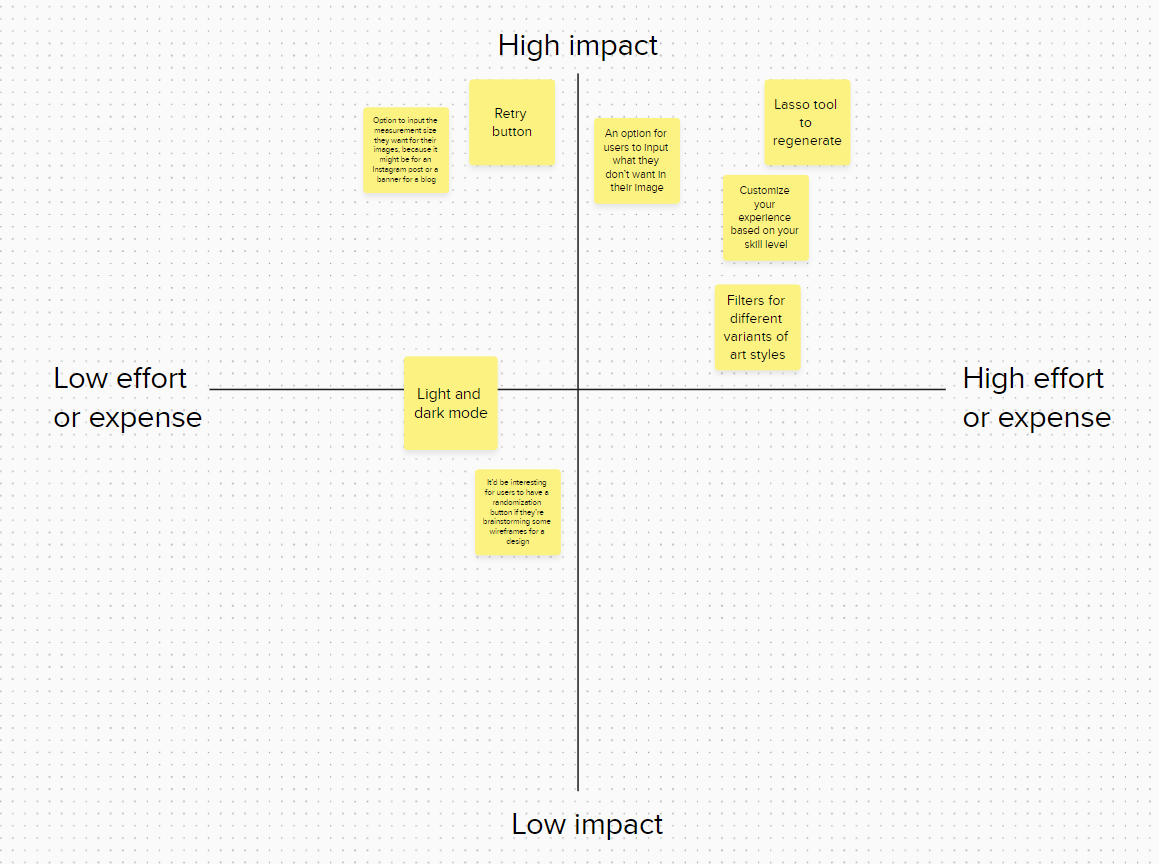
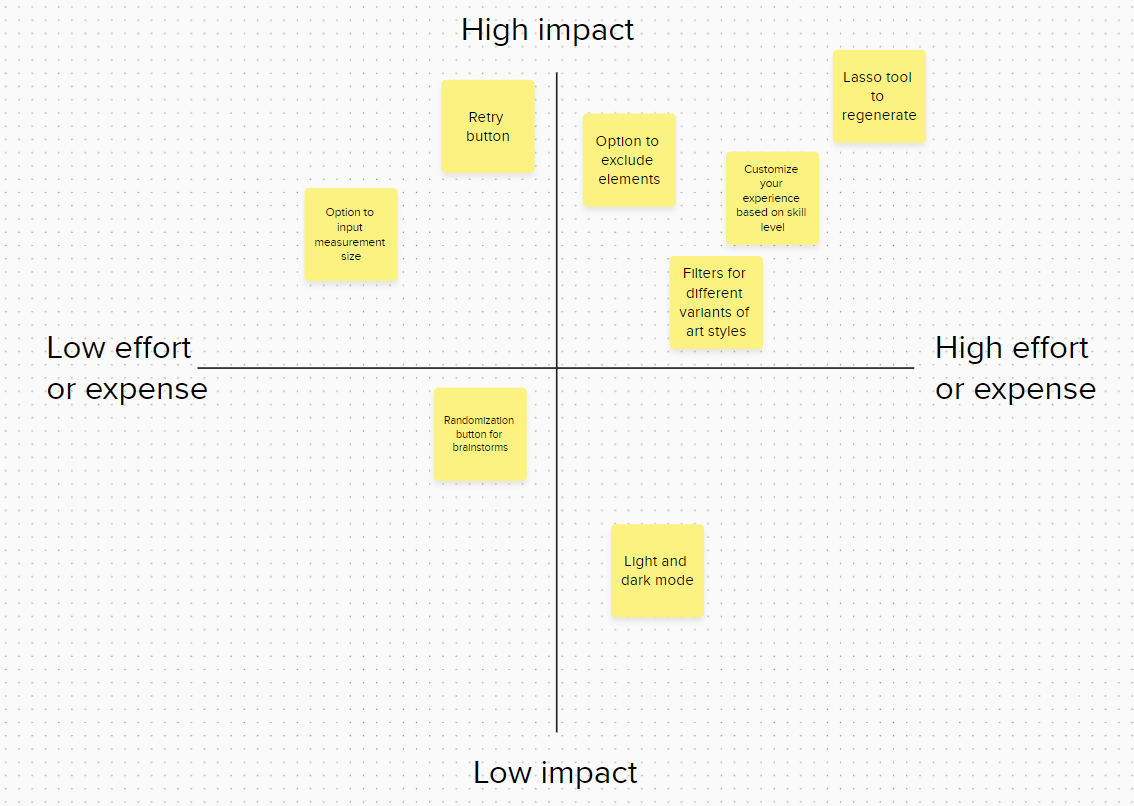
fixed bp

Changed region(s): [[0.0309, 0.0, 0.9877, 0.8995], [0.4321, 0.9305, 0.5864, 0.9926]]

diff --git a/bp.html b/bp.html
@@ -132,11 +132,17 @@
       <h4><span class="lime-highlight">19</span> participants</h4>
     </br>
         <div class="bullets">
-            <p><span class="lime-highlight">42% </span>of participants have no experience with AI image generators</p>
-            <p><span class="lime-highlight">100% </span>of participants use images within their work</p>
-            <p><span class="lime-highlight">36% </span> of participants already integrate AI image generators into their work at bp</p>
+            <p2><span class="lime-highlight">42% </span>of participants have no experience with AI image generators</p2>
+            <p><span class="grey-highlight">This indicates that a significant portion of bp employees currently lack experience with AI image generators.</span></p>
+          </br>
+            <p2><span class="lime-highlight">100% </span>of participants use images within their work</p2>
+            <p><span class="grey-highlight">This number shows that every single participant would have a use case for an AI image generator.</span></p>
+          </br>
+            <p2><span class="lime-highlight">36% </span> of participants already integrate AI image generators into their work at bp</p2>
+            <p><span class="grey-highlight">Since bp doesn't have an approved internal tool, some employees might unintentionally be using bp's data to train AI models without realizing it. </span></p>
+          </br>
             <p>The <span class="lime-highlight">top 3 purposes of images </span> are for presentations, infographics, and design</p>
-            <p>The <span class="lime-highlight">top 3 style of images </span> are stock images, photography, and illustrations</p>
+            <p>The <span class="lime-highlight">top 3 style of images </span> are stock images (primarily photography) and illustrations</p>
         </div>
       </div>
 
@@ -202,26 +208,38 @@
           <div class="container">
             <h2>User Personas</h2>
             <h1>I developed 3 different personas using the research I conducted</h1>
+            <h2>Although I did user interviews with various designers, I focused on which roles would have the highest use cases</h2>
           </br>
               <div class="image-container">
+                <h3>Regular bp employee</h3>
+                <h2>(Non designer)</h2>
+              </br>
+                <div class="bullet-image"><img src="img/bp/Slide14.jpg" alt="User Journey"></div>
+              </div>
+            </br>
               <h3>Content designer</h3>
+            </br>
                 <div class="bullet-image"><img src="img/bp/Slide12.jpg" alt="User Journey"></div>
               </br>
                 <h3>Service designer</h3>
+              </br>
                 <div class="bullet-image"><img src="img/bp/Slide13.jpg" alt="User Journey"></div>
               </br>
-                <h3>Regular bp employee</h3>
-                <div class="bullet-image"><img src="img/bp/Slide14.jpg" alt="User Journey"></div>
-              </div>
             </div>
       <!-- Seventh Section -->
             <div class="container">
               <h2>Ideate</h2>
               <h1>Feature prioritization 2x2 matrix</h1>
-              <h2>Figuring out which features are most important</h2>
+              <h2>Recognizing that we can't tackle everything at once, I created this 2x2 matrix to help identify and prioritize the most important tasks.</h2>
             </br>
               <div class="image-container">
                 <div class="bullet-image"><img src="img/bp/3.png" alt="Features"></div>
+              </br>
+                <h2>Based off of this, I didn't include:</h2>
+                <div class="bullets">
+                  <p>Light and dark mode</p>
+                  <p>Randomize button for specific purposes</p>
+              </div>
             </div>
             </div>
           </div>

diff --git a/styles.css b/styles.css
@@ -989,6 +989,12 @@ h3 {
   font-size: 1.3em;
   line-height: 1.8;
 }
+.bullets p2 {
+  color: #000000;
+  font-size: 1.4em; /* Adjust the font size as needed */
+  margin: 0 0 50px 0; /* Adds 20px space at the bottom */
+}
+
 
 .bullets p::before {
   content: '\2022';
@@ -1590,7 +1596,11 @@ input[type="password"] {
   font-weight: 700;
   /* Additional styling */
 }
-
+.grey-highlight {
+  color: #787878;
+  font-weight: 400;
+  /* Additional styling */
+}
 h4 {
   font-size: 2em;
   text-align: center;

diff --git a/hackUTDwebsite.html b/hackUTDwebsite.html
@@ -63,9 +63,11 @@
       <div class="grid__item">
         <h2>Company —</h2>
         <p><a href="https://hackutd.co/" class="blue-link" target="_blank">HackUTD</a></p>
+        <p><a href="https://acmutd.co/" class="blue-link" target="_blank">ACM at UTD</a></p>
       </div>
       <div class="grid__item">
         <h2>Skills —</h2>
+        <p>Design Engineering</p>
         <p>Prototyping</p>
         <p>Figma</p>
         <p>Prototyping</p>

diff --git a/Stemuli.html b/Stemuli.html
@@ -72,6 +72,7 @@
         <p>Usability Testing</p>
         <p>Prototyping</p>
         <p>UI/UX Design</p>
+        <p>AI Tool Usage</p>
       </div>
       <div class="grid__item">
         <h2>Timeline —</h2>

diff --git a/hackportal.html b/hackportal.html
@@ -69,6 +69,7 @@
       </div>
       <div class="grid__item">
         <h2>Skills —</h2>
+        <p>Design Engineering</p>
         <p>Prototyping</p>
         <p>Figma</p>
         <p>Prototyping</p>
